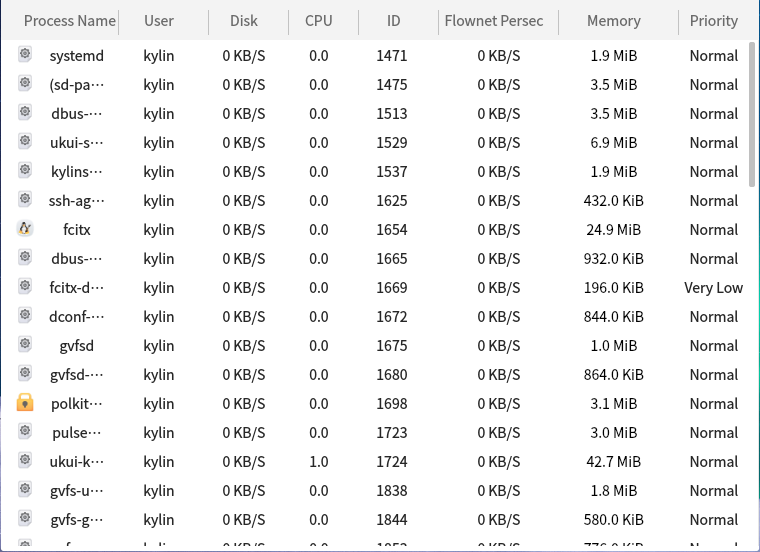
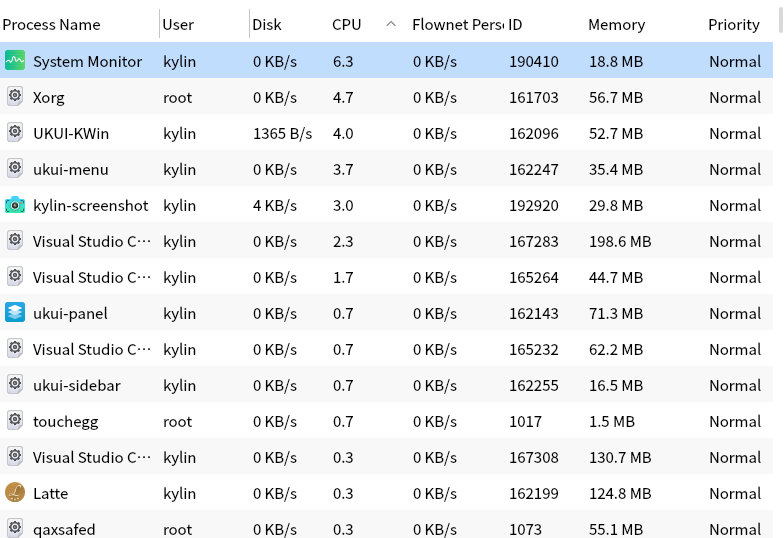
修改程序英文名称为System Monitor

diff --git a/src/translation/ukui-system-monitor_en_US.ts b/src/translation/ukui-system-monitor_en_US.ts
@@ -1,6 +1,6 @@
 <?xml version="1.0" encoding="utf-8"?>
 <!DOCTYPE TS>
-<TS version="2.1" language="ru_RU">
+<TS version="2.1" language="en_US">
 <context>
     <name>FileSystemModel</name>
     <message>
@@ -192,7 +192,7 @@
         <location filename="../newresource/newresourcesdialog.cpp" line="329"/>
         <location filename="../newresource/newresourcesdialog.cpp" line="330"/>
         <source>KiB</source>
-        <translation type="unfinished"></translation>
+        <translation>KB</translation>
     </message>
     <message>
         <location filename="../newresource/newresourcesdialog.cpp" line="355"/>
@@ -232,7 +232,7 @@
         <location filename="../newresource/newresourcesdialog.cpp" line="517"/>
         <location filename="../newresource/newresourcesdialog.cpp" line="531"/>
         <source>GiB</source>
-        <translation type="unfinished"></translation>
+        <translation type="unfinished">GB</translation>
     </message>
     <message>
         <location filename="../newresource/newresourcesdialog.cpp" line="541"/>
@@ -413,7 +413,7 @@
     <message>
         <location filename="../gui/processtableview.cpp" line="661"/>
         <source>End the selected process &quot;%1&quot;(PID:%2)?</source>
-        <translation type="unfinished"></translation>
+        <translation type="unfinished">End the selected process &quot;%1&quot;(PID:%2)?</translation>
     </message>
     <message>
         <location filename="../gui/processtableview.cpp" line="662"/>
@@ -430,7 +430,7 @@ Are you sure to continue?</source>
     <message>
         <location filename="../gui/processtableview.cpp" line="686"/>
         <source>Kill the selected process &quot;%1&quot;(PID:%2)?</source>
-        <translation type="unfinished"></translation>
+        <translation type="unfinished">Kill the selected process &quot;%1&quot;(PID:%2)?</translation>
     </message>
     <message>
         <location filename="../gui/processtableview.cpp" line="687"/>
@@ -441,6 +441,76 @@ Are you sure to continue?</source>
 </context>
 <context>
     <name>QObject</name>
+    <message>
+        <location filename="../newresource/newresourcesdialog.cpp" line="78"/>
+        <location filename="../newresource/newresourcesdialog.cpp" line="220"/>
+        <source>KiB</source>
+        <translation>KB</translation>
+    </message>
+    <message>
+        <location filename="../model/processtablemodel.cpp" line="50"/>
+        <location filename="../newresource/newresourcesdialog.cpp" line="83"/>
+        <location filename="../newresource/newresourcesdialog.cpp" line="226"/>
+        <source>MiB</source>
+        <translation>MB</translation>
+    </message>
+    <message>
+        <location filename="../newresource/newresourcesdialog.cpp" line="88"/>
+        <location filename="../newresource/newresourcesdialog.cpp" line="232"/>
+        <source>GiB</source>
+        <translation>GB</translation>
+    </message>
+    <message>
+        <location filename="../newresource/newresourcesdialog.cpp" line="93"/>
+        <location filename="../newresource/newresourcesdialog.cpp" line="238"/>
+        <source>TiB</source>
+        <translation>TB</translation>
+    </message>
+    <message>
+        <location filename="../newresource/newresourcesdialog.cpp" line="222"/>
+        <source>KiB/s</source>
+        <translation>KB/s</translation>
+    </message>
+    <message>
+        <location filename="../newresource/newresourcesdialog.cpp" line="228"/>
+        <source>MiB/s</source>
+        <translation>MB/s</translation>
+    </message>
+    <message>
+        <location filename="../newresource/newresourcesdialog.cpp" line="234"/>
+        <source>GiB/s</source>
+        <translation>GB/s</translation>
+    </message>
+    <message>
+        <location filename="../newresource/newresourcesdialog.cpp" line="240"/>
+        <source>TiB/s</source>
+        <translation>TB/s</translation>
+    </message>
+    <message>
+        <location filename="../gui/procpropertiesdlg.cpp" line="166"/>
+        <source>User name:</source>
+        <translation type="unfinished"></translation>
+    </message>
+    <message>
+        <location filename="../gui/procpropertiesdlg.cpp" line="166"/>
+        <source>Process name:</source>
+        <translation type="unfinished"></translation>
+    </message>
+    <message>
+        <location filename="../gui/procpropertiesdlg.cpp" line="166"/>
+        <source>Command line:</source>
+        <translation type="unfinished"></translation>
+    </message>
+    <message>
+        <location filename="../gui/procpropertiesdlg.cpp" line="166"/>
+        <source>CPU Time:</source>
+        <translation type="unfinished"></translation>
+    </message>
+    <message>
+        <location filename="../gui/procpropertiesdlg.cpp" line="166"/>
+        <source>Started Time:</source>
+        <translation type="unfinished"></translation>
+    </message>
     <message>
         <location filename="../util.cpp" line="388"/>
         <source>Running</source>
@@ -520,76 +590,6 @@ Are you sure to continue?</source>
     <message>
         <location filename="../util.cpp" line="436"/>
         <source>Very Low Priority</source>
-        <translation type="unfinished"></translation>
-    </message>
-    <message>
-        <location filename="../newresource/newresourcesdialog.cpp" line="78"/>
-        <location filename="../newresource/newresourcesdialog.cpp" line="220"/>
-        <source>KiB</source>
-        <translation type="unfinished"></translation>
-    </message>
-    <message>
-        <location filename="../newresource/newresourcesdialog.cpp" line="222"/>
-        <source>KiB/s</source>
-        <translation type="unfinished"></translation>
-    </message>
-    <message>
-        <location filename="../model/processtablemodel.cpp" line="50"/>
-        <location filename="../newresource/newresourcesdialog.cpp" line="83"/>
-        <location filename="../newresource/newresourcesdialog.cpp" line="226"/>
-        <source>MiB</source>
-        <translation type="unfinished"></translation>
-    </message>
-    <message>
-        <location filename="../newresource/newresourcesdialog.cpp" line="228"/>
-        <source>MiB/s</source>
-        <translation type="unfinished"></translation>
-    </message>
-    <message>
-        <location filename="../newresource/newresourcesdialog.cpp" line="88"/>
-        <location filename="../newresource/newresourcesdialog.cpp" line="232"/>
-        <source>GiB</source>
-        <translation type="unfinished"></translation>
-    </message>
-    <message>
-        <location filename="../newresource/newresourcesdialog.cpp" line="234"/>
-        <source>GiB/s</source>
-        <translation type="unfinished"></translation>
-    </message>
-    <message>
-        <location filename="../newresource/newresourcesdialog.cpp" line="93"/>
-        <location filename="../newresource/newresourcesdialog.cpp" line="238"/>
-        <source>TiB</source>
-        <translation type="unfinished"></translation>
-    </message>
-    <message>
-        <location filename="../newresource/newresourcesdialog.cpp" line="240"/>
-        <source>TiB/s</source>
-        <translation type="unfinished"></translation>
-    </message>
-    <message>
-        <location filename="../gui/procpropertiesdlg.cpp" line="166"/>
-        <source>User name:</source>
-        <translation type="unfinished"></translation>
-    </message>
-    <message>
-        <location filename="../gui/procpropertiesdlg.cpp" line="166"/>
-        <source>Process name:</source>
-        <translation type="unfinished"></translation>
-    </message>
-    <message>
-        <location filename="../gui/procpropertiesdlg.cpp" line="166"/>
-        <source>Command line:</source>
-        <translation type="unfinished"></translation>
-    </message>
-    <message>
-        <location filename="../gui/procpropertiesdlg.cpp" line="166"/>
-        <source>CPU Time:</source>
-        <translation type="unfinished"></translation>
-    </message>
-    <message>
-        <location filename="../gui/procpropertiesdlg.cpp" line="166"/>
-        <source>Started Time:</source>
         <translation type="unfinished"></translation>
     </message>
     <message>

diff --git a/src/translation/ukui-system-monitor_tr.ts b/src/translation/ukui-system-monitor_tr.ts
@@ -348,7 +348,7 @@
     <message>
         <location filename="../monitortitlewidget.cpp" line="392"/>
         <source>Kylin System Monitor</source>
-        <translation type="unfinished"></translation>
+        <translation type="unfinished">System Monitor</translation>
     </message>
     <message>
         <location filename="../monitortitlewidget.cpp" line="428"/>
@@ -1216,7 +1216,7 @@ Devam etmek istediğinizden emin misiniz?</translation>
     <message>
         <location filename="../systemmonitor.cpp" line="74"/>
         <source>Kylin System Monitor</source>
-        <translation type="unfinished"></translation>
+        <translation type="unfinished">System Monitor</translation>
     </message>
 </context>
 <context>
@@ -1243,7 +1243,7 @@ Devam etmek istediğinizden emin misiniz?</translation>
         <location filename="../newaboutdialog.cpp" line="45"/>
         <location filename="../newaboutdialog.cpp" line="84"/>
         <source>Kylin System Monitor</source>
-        <translation type="unfinished"></translation>
+        <translation type="unfinished">System Monitor</translation>
     </message>
     <message>
         <location filename="../newaboutdialog.cpp" line="94"/>
@@ -1253,7 +1253,7 @@ Devam etmek istediğinizden emin misiniz?</translation>
     <message>
         <location filename="../newaboutdialog.cpp" line="123"/>
         <source>kylin system monitor</source>
-        <translation type="unfinished"></translation>
+        <translation type="unfinished">System Monitor</translation>
     </message>
     <message>
         <location filename="../newaboutdialog.cpp" line="144"/>

diff --git a/src/translation/ukui-system-monitor_bo.ts b/src/translation/ukui-system-monitor_bo.ts
@@ -100,7 +100,7 @@
     <message>
         <location filename="../monitortitlewidget.cpp" line="392"/>
         <source>Kylin System Monitor</source>
-        <translation type="unfinished"></translation>
+        <translation type="unfinished">System Monitor</translation>
     </message>
     <message>
         <location filename="../monitortitlewidget.cpp" line="428"/>
@@ -640,7 +640,7 @@ Are you sure to continue?</source>
     <message>
         <location filename="../systemmonitor.cpp" line="74"/>
         <source>Kylin System Monitor</source>
-        <translation type="unfinished"></translation>
+        <translation type="unfinished">System Monitor</translation>
     </message>
 </context>
 <context>
@@ -649,7 +649,7 @@ Are you sure to continue?</source>
         <location filename="../newaboutdialog.cpp" line="45"/>
         <location filename="../newaboutdialog.cpp" line="84"/>
         <source>Kylin System Monitor</source>
-        <translation type="unfinished"></translation>
+        <translation type="unfinished">System Monitor</translation>
     </message>
     <message>
         <location filename="../newaboutdialog.cpp" line="94"/>
@@ -659,7 +659,7 @@ Are you sure to continue?</source>
     <message>
         <location filename="../newaboutdialog.cpp" line="123"/>
         <source>kylin system monitor</source>
-        <translation type="unfinished"></translation>
+        <translation type="unfinished">System Monitor</translation>
     </message>
     <message>
         <location filename="../newaboutdialog.cpp" line="144"/>

diff --git a/src/translation/ukui-system-monitor_de.ts b/src/translation/ukui-system-monitor_de.ts
@@ -100,7 +100,7 @@
     <message>
         <location filename="../monitortitlewidget.cpp" line="392"/>
         <source>Kylin System Monitor</source>
-        <translation type="unfinished"></translation>
+        <translation type="unfinished">System Monitor</translation>
     </message>
     <message>
         <location filename="../monitortitlewidget.cpp" line="428"/>
@@ -640,7 +640,7 @@ Are you sure to continue?</source>
     <message>
         <location filename="../systemmonitor.cpp" line="74"/>
         <source>Kylin System Monitor</source>
-        <translation type="unfinished"></translation>
+        <translation type="unfinished">System Monitor</translation>
     </message>
 </context>
 <context>
@@ -649,7 +649,7 @@ Are you sure to continue?</source>
         <location filename="../newaboutdialog.cpp" line="45"/>
         <location filename="../newaboutdialog.cpp" line="84"/>
         <source>Kylin System Monitor</source>
-        <translation type="unfinished"></translation>
+        <translation type="unfinished">System Monitor</translation>
     </message>
     <message>
         <location filename="../newaboutdialog.cpp" line="94"/>
@@ -659,7 +659,7 @@ Are you sure to continue?</source>
     <message>
         <location filename="../newaboutdialog.cpp" line="123"/>
         <source>kylin system monitor</source>
-        <translation type="unfinished"></translation>
+        <translation type="unfinished">System Monitor</translation>
     </message>
     <message>
         <location filename="../newaboutdialog.cpp" line="144"/>

diff --git a/src/translation/ukui-system-monitor_es.ts b/src/translation/ukui-system-monitor_es.ts
@@ -100,7 +100,7 @@
     <message>
         <location filename="../monitortitlewidget.cpp" line="392"/>
         <source>Kylin System Monitor</source>
-        <translation type="unfinished"></translation>
+        <translation type="unfinished">System Monitor</translation>
     </message>
     <message>
         <location filename="../monitortitlewidget.cpp" line="428"/>
@@ -640,7 +640,7 @@ Are you sure to continue?</source>
     <message>
         <location filename="../systemmonitor.cpp" line="74"/>
         <source>Kylin System Monitor</source>
-        <translation type="unfinished"></translation>
+        <translation type="unfinished">System Monitor</translation>
     </message>
 </context>
 <context>
@@ -649,7 +649,7 @@ Are you sure to continue?</source>
         <location filename="../newaboutdialog.cpp" line="45"/>
         <location filename="../newaboutdialog.cpp" line="84"/>
         <source>Kylin System Monitor</source>
-        <translation type="unfinished"></translation>
+        <translation type="unfinished">System Monitor</translation>
     </message>
     <message>
         <location filename="../newaboutdialog.cpp" line="94"/>
@@ -659,7 +659,7 @@ Are you sure to continue?</source>
     <message>
         <location filename="../newaboutdialog.cpp" line="123"/>
         <source>kylin system monitor</source>
-        <translation type="unfinished"></translation>
+        <translation type="unfinished">System Monitor</translation>
     </message>
     <message>
         <location filename="../newaboutdialog.cpp" line="144"/>

diff --git a/src/translation/ukui-system-monitor_fr.ts b/src/translation/ukui-system-monitor_fr.ts
@@ -100,7 +100,7 @@
     <message>
         <location filename="../monitortitlewidget.cpp" line="392"/>
         <source>Kylin System Monitor</source>
-        <translation type="unfinished"></translation>
+        <translation type="unfinished">System Monitor</translation>
     </message>
     <message>
         <location filename="../monitortitlewidget.cpp" line="428"/>
@@ -640,7 +640,7 @@ Are you sure to continue?</source>
     <message>
         <location filename="../systemmonitor.cpp" line="74"/>
         <source>Kylin System Monitor</source>
-        <translation type="unfinished"></translation>
+        <translation type="unfinished">System Monitor</translation>
     </message>
 </context>
 <context>
@@ -649,7 +649,7 @@ Are you sure to continue?</source>
         <location filename="../newaboutdialog.cpp" line="45"/>
         <location filename="../newaboutdialog.cpp" line="84"/>
         <source>Kylin System Monitor</source>
-        <translation type="unfinished"></translation>
+        <translation type="unfinished">System Monitor</translation>
     </message>
     <message>
         <location filename="../newaboutdialog.cpp" line="94"/>
@@ -659,7 +659,7 @@ Are you sure to continue?</source>
     <message>
         <location filename="../newaboutdialog.cpp" line="123"/>
         <source>kylin system monitor</source>
-        <translation type="unfinished"></translation>
+        <translation type="unfinished">System Monitor</translation>
     </message>
     <message>
         <location filename="../newaboutdialog.cpp" line="144"/>

diff --git a/src/main.cpp b/src/main.cpp
@@ -54,7 +54,8 @@ int main(int argc, char *argv[])
 
         QString locale = QLocale::system().name();
         QTranslator translator;
-        if(locale == "zh_CN" || locale == "es" || locale == "fr" || locale == "de" || locale == "ru") {//中文 西班牙语 法语 德语 俄语
+        if(locale == "zh_CN" || locale == "es" || locale == "fr" || locale == "de" 
+            || locale == "ru" || locale == "en_US") {//中文 西班牙语 法语 德语 俄语 英语
             if(!translator.load("ukui-system-monitor_" + locale + ".qm",
                                 ":/translation/"))
                 qDebug() << "Load translation file："<< "ukui-system-monitor_" + locale + ".qm" << " failed!";

diff --git a/data/kylin-system-monitor/en_US/index.md b/data/kylin-system-monitor/en_US/index.md
@@ -1,6 +1,6 @@
-# Kylin System Monitor
+# System Monitor
 ## Overview
-Kylin System Monitor is a professional application for monitoring system processes, system resources and file systems on domestic Galaxy Kylin and Ukylin. Through its concise and clear interface, it can intuitively display system-related information that users want to find.
+System Monitor is a professional application for monitoring system processes, system resources and file systems on domestic Galaxy Kylin and Ukylin. Through its concise and clear interface, it can intuitively display system-related information that users want to find.
 
 ![Fig 1 Kylin System Monitor-big](image/1.png)
 <br>
